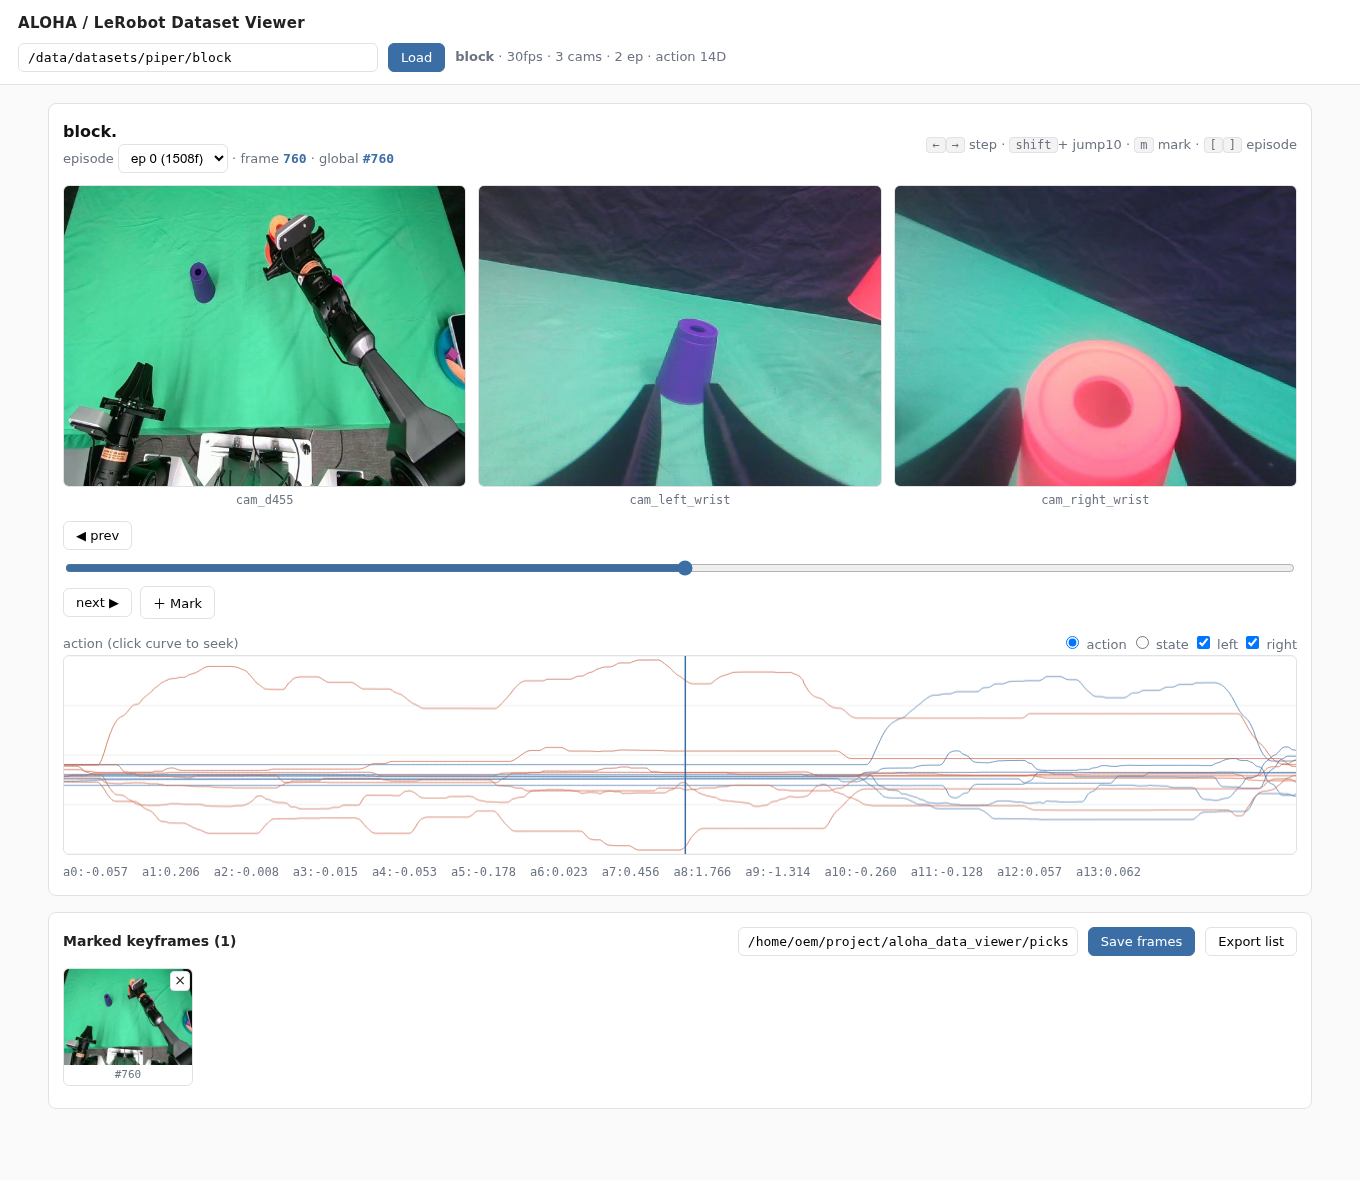
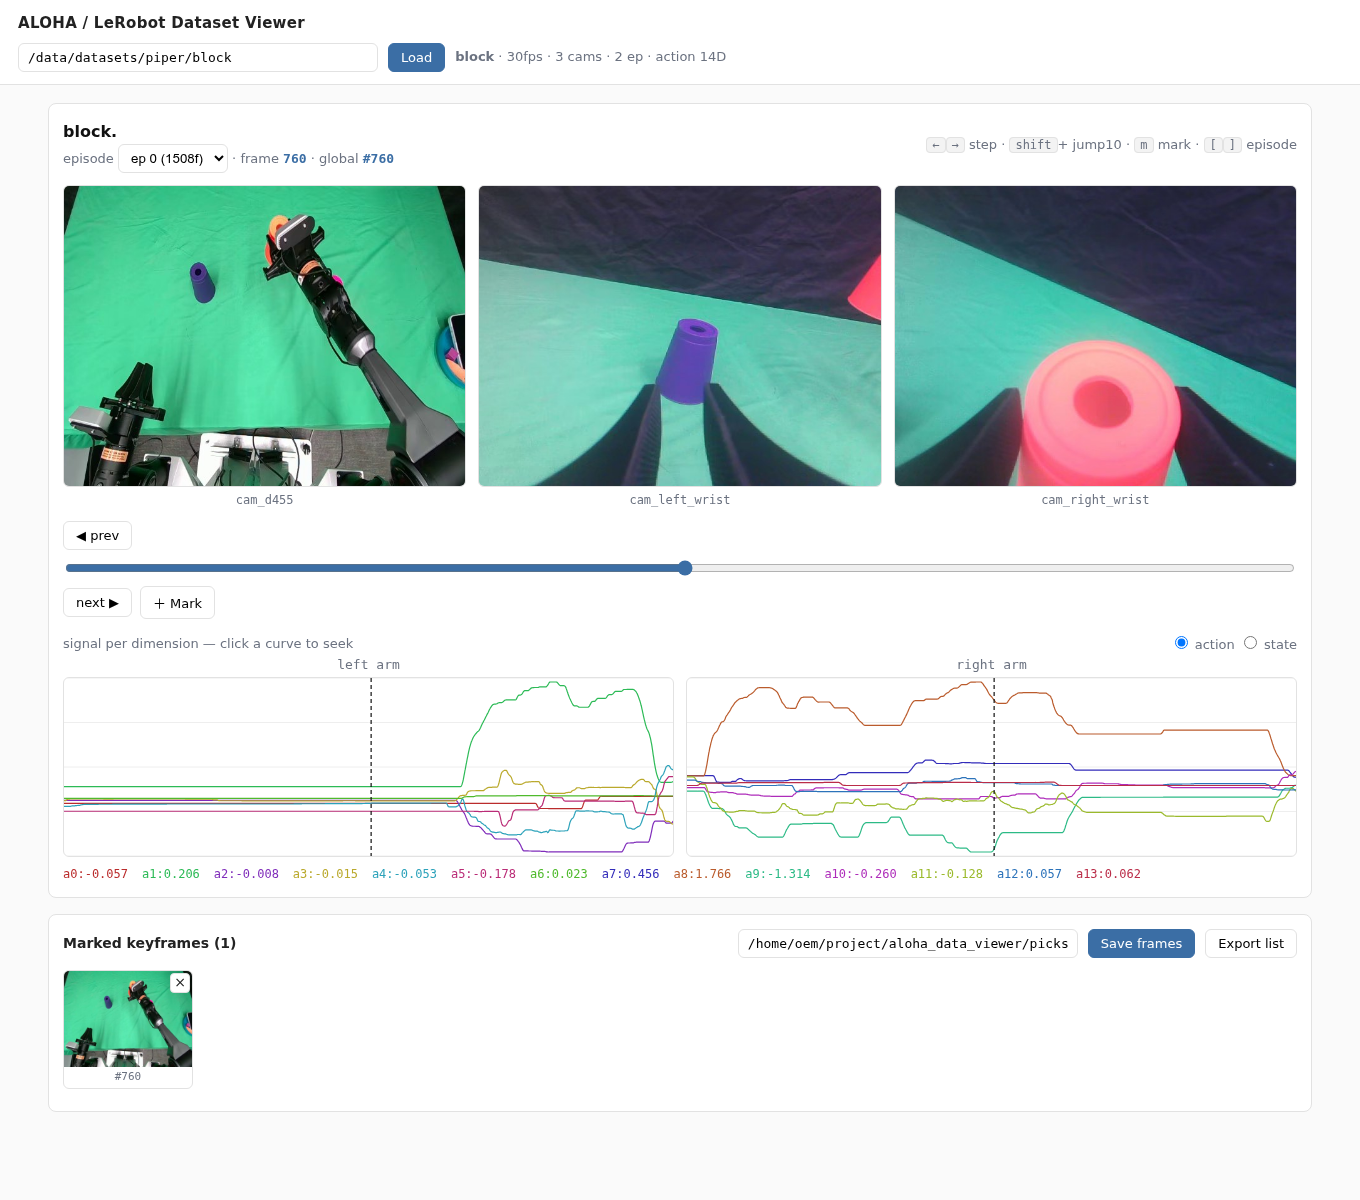
curves: split into left-arm / right-arm charts, one color per action dim (colored value legend); refresh preview

diff --git a/index.html b/index.html
@@ -34,7 +34,7 @@
   .cam .cap{ text-align:center; color:var(--mut); font-size:12px; margin-top:4px; }
   .controls{ margin-top:12px; }
   #slider{ width:100%; accent-color:var(--acc); }
-  canvas{ width:100%; height:200px; display:block; border:1px solid var(--bd);
+  canvas{ width:100%; height:180px; display:block; border:1px solid var(--bd);
         border-radius:6px; background:#fff; cursor:crosshair; }
   .dims{ display:flex; gap:14px; flex-wrap:wrap; margin-top:8px; color:var(--mut); font-size:12px; }
   .grid{ display:grid; grid-template-columns:repeat(auto-fill,minmax(120px,1fr)); gap:8px; }
@@ -87,13 +87,14 @@
 
     <div style="margin-top:14px">
       <div class="meta row" style="justify-content:space-between">
-        <span>action (click curve to seek)</span>
+        <span>signal per dimension — click a curve to seek</span>
         <span><label><input type="radio" name="sig" value="action" checked onchange="setSig('action')"> action</label>
-              <label><input type="radio" name="sig" value="state" onchange="setSig('state')"> state</label>
-              <label><input type="checkbox" id="cL" checked onchange="draw()"> left</label>
-              <label><input type="checkbox" id="cR" checked onchange="draw()"> right</label></span>
+              <label><input type="radio" name="sig" value="state" onchange="setSig('state')"> state</label></span>
       </div>
-      <canvas id="plot"></canvas>
+      <div style="display:flex; gap:12px">
+        <div style="flex:1"><div class="meta mono" style="text-align:center; margin-bottom:3px">left arm</div><canvas id="plotL"></canvas></div>
+        <div style="flex:1"><div class="meta mono" style="text-align:center; margin-bottom:3px">right arm</div><canvas id="plotR"></canvas></div>
+      </div>
       <div class="dims" id="curval"></div>
     </div>
   </div>
@@ -118,6 +119,7 @@ const S = { ds:null, ep:0, epStart:0, n:0, k:0, sig:"action", series:null, marks
 
 const $ = id => document.getElementById(id);
 const gidx = () => S.epStart + S.k;
+const dimColor = d => `hsl(${Math.round((d*137.508)%360)},62%,45%)`;   // distinct per action dim
 
 async function loadDS(){
   const path = $("path").value.trim();
@@ -173,48 +175,50 @@ function prefetch(){
 /* ---- action / state curves (grid + curves + cursor drawn together) ---- */
 function setSig(s){ S.sig = s; draw(); }
 function curData(){ return S.series && S.series[S.sig] ? S.series[S.sig] : null; }
-let plotGeom = null;
 function draw(){
-  const cv = $("plot"), data = curData();
-  const W = cv.clientWidth, Hh = 200;
+  const data = curData();
+  const D = data ? data[0].length : 0, half = Math.floor(D/2);
+  drawArm($("plotL"), data, 0, half);        // left arm dims
+  drawArm($("plotR"), data, half, D);        // right arm dims
+  showVals();
+}
+function drawArm(cv, data, dStart, dEnd){
+  const W = cv.clientWidth, Hh = cv.clientHeight || 180;
   cv.width = W*devicePixelRatio; cv.height = Hh*devicePixelRatio;
   const ctx = cv.getContext("2d");
   ctx.setTransform(devicePixelRatio,0,0,devicePixelRatio,0,0);
   ctx.clearRect(0,0,W,Hh);
   ctx.strokeStyle="#eee"; ctx.lineWidth=1;
   for(let i=0;i<=4;i++){ const y=Hh*i/4; ctx.beginPath(); ctx.moveTo(0,y); ctx.lineTo(W,y); ctx.stroke(); }
-  if(!data){ plotGeom=null; return; }
-  const T=data.length, D=data[0].length;
-  let lo=Infinity, hi=-Infinity;
-  for(const r of data) for(const v of r){ if(v<lo)lo=v; if(v>hi)hi=v; }
-  const rng=hi-lo||1, half=Math.floor(D/2);
-  const showL=$("cL").checked, showR=$("cR").checked;
+  if(!data){ return; }
+  const T=data.length;
+  let lo=Infinity, hi=-Infinity;                       // auto-scale to this arm's dims
+  for(const r of data) for(let d=dStart;d<dEnd;d++){ const v=r[d]; if(v<lo)lo=v; if(v>hi)hi=v; }
+  const rng=hi-lo||1;
   const X = t => T>1 ? W*t/(T-1) : 0;
   const Y = v => Hh - (v-lo)/rng*(Hh-8) - 4;
-  for(let d=0; d<D; d++){
-    const isL = d<half;
-    if((isL&&!showL)||(!isL&&!showR)) continue;
-    ctx.strokeStyle = isL ? "rgba(59,110,165,.75)" : "rgba(200,90,60,.75)";
-    ctx.lineWidth=1; ctx.beginPath();
+  for(let d=dStart; d<dEnd; d++){
+    ctx.strokeStyle = dimColor(d); ctx.lineWidth=1.2; ctx.beginPath();
     for(let t=0;t<T;t++){ const x=X(t), y=Y(data[t][d]); t?ctx.lineTo(x,y):ctx.moveTo(x,y); }
     ctx.stroke();
   }
-  const cx = X(Math.min(S.k, T-1));
-  ctx.strokeStyle="#3b6ea5"; ctx.lineWidth=1.5;
-  ctx.beginPath(); ctx.moveTo(cx,0); ctx.lineTo(cx,Hh); ctx.stroke();
-  plotGeom = {T};
-  showVals();
+  const cx = X(Math.min(S.k, T-1));                    // cursor
+  ctx.strokeStyle="#111"; ctx.lineWidth=1.2; ctx.setLineDash([4,3]);
+  ctx.beginPath(); ctx.moveTo(cx,0); ctx.lineTo(cx,Hh); ctx.stroke(); ctx.setLineDash([]);
 }
 function showVals(){
   const data=curData(); if(!data) return;
   const row=data[Math.min(S.k,data.length-1)];
-  $("curval").innerHTML = row.map((v,i)=>`<span class="mono">a${i}:${(+v).toFixed(3)}</span>`).join("");
+  $("curval").innerHTML = row.map((v,i)=>
+    `<span class="mono" style="color:${dimColor(i)}">a${i}:${(+v).toFixed(3)}</span>`).join("");
 }
-$("plot").addEventListener("click", ev=>{
-  if(!plotGeom) return;
+function seekFromClick(ev){
+  if(!S.series) return;
   const rect=ev.target.getBoundingClientRect();
   seek(Math.round((ev.clientX-rect.left)/rect.width*(S.n-1)));
-});
+}
+$("plotL").addEventListener("click", seekFromClick);
+$("plotR").addEventListener("click", seekFromClick);
 
 /* ---- marks ---- */
 function mark(){ const g=gidx(); if(!S.marks.includes(g)){ S.marks.push(g); S.marks.sort((a,b)=>a-b); renderMarks(); } }